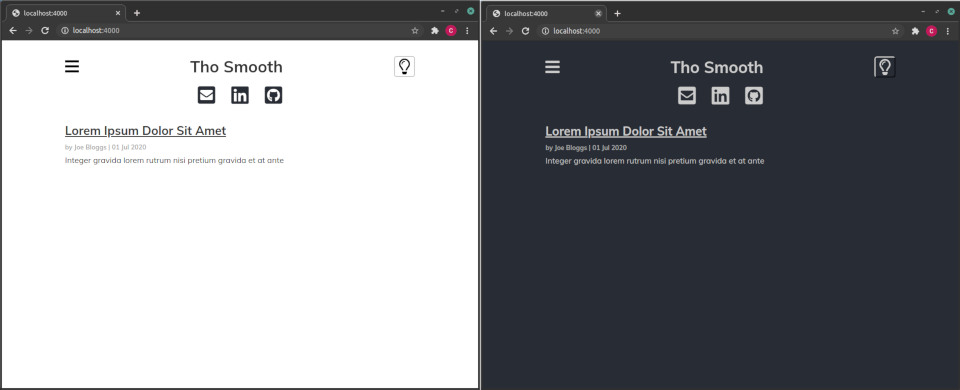
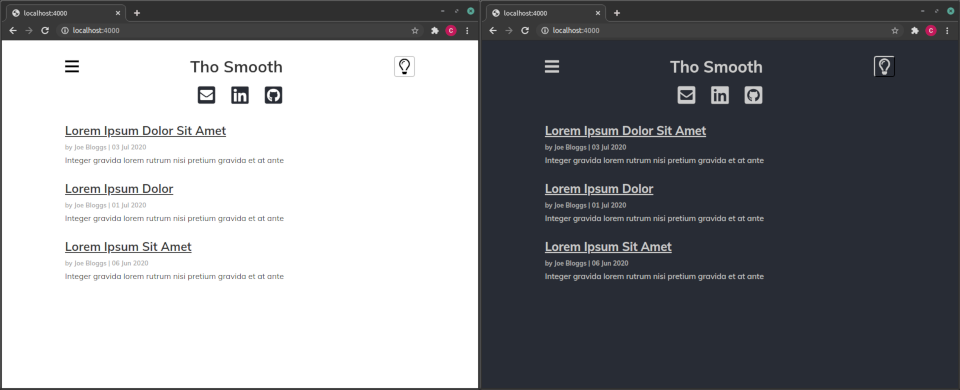
Edits to README.md and additional example posts

diff --git a/README.md b/README.md
@@ -9,6 +9,8 @@ To take a look, just clone the repo and run `jekyll serve`.
 
 ### Index Page
 
+NOTE: No pagination on index pages, yet.
+
 ![](site-assets/images/tho-smooth-index.png)
 
 ### Posts
